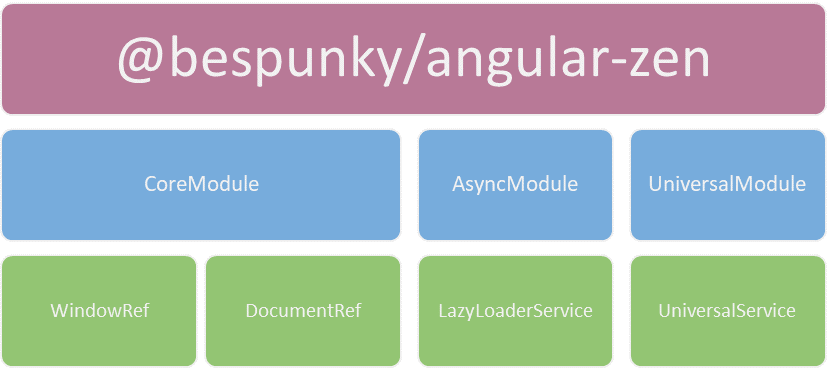
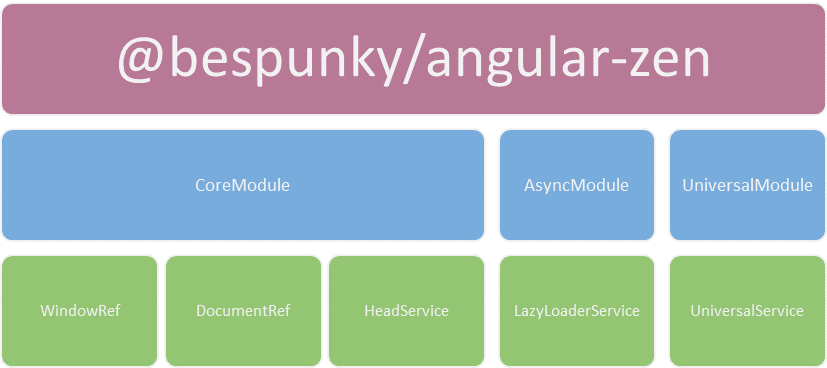
📃 Added wiki info for head service

diff --git a/projects/bespunky/angular-zen/core/testing/utils/setup.ts b/projects/bespunky/angular-zen/core/testing/utils/setup.ts
@@ -8,21 +8,17 @@ import { MockElement          } from '../mocks/element.mock';
 
 /**
  * Mocks the following hierarchy:
+ * ```javascript
  *  DocumentRef {
  *    nativeDocument: {
  *      head: mockHeadElement,
  *      createElement: () => mockScriptElement | mockLinkElement | mockDivElement | MockElement(<tagName>)
  *    }
  *  }
+ * ```
  * 
  * Used when testing head related services (e.g. HeadService, LazyLoaderService).
- * The returned mocks can be deconstructed like so:
  * 
- * @example
- * let mockDivElement, mockScriptElement, ...;
- * 
- * ({ mockDivElement, mockScriptElement, mockLinkElement, mockHeadElement, mockDocument } = setupDocumentRefMock());
- *
  * Any element created using `DocumentRef.nativeDocument.createElement()` will go through this mock.
  * The returned mocks allow expectations and state comparison as they are the objects returned
  * by the fake `createElement()` function.
@@ -31,6 +27,13 @@ import { MockElement          } from '../mocks/element.mock';
  * If a link element was requested, the mockLinkElement object is returned.
  * If a div element was requested, the mockDivElement object is returned.
  * If any other tag name is requested, a new MockElement object is returned.
+ * 
+ * The returned mocks can be deconstructed like so:
+ *
+ * @example
+ * let mockDivElement, mockScriptElement, ...;
+ * 
+ * ({ mockDivElement, mockScriptElement, mockLinkElement, mockHeadElement, mockDocument } = setupDocumentRefMock());
  */
 export function setupDocumentRefMock()
 {        

diff --git a/wiki/Modules/CoreModule/HeadService.md b/wiki/Modules/CoreModule/HeadService.md
@@ -1,0 +1,71 @@
+# HeadService
+Apart from the `Meta` and `Title` services, Angular doesn't provide a straight forward way of manipulating the `<head>` element.
+
+The `HeadService` provides tools for elements lookup, adding elements and removing them from `<head>`.
+
+> If you're looking for a way to lazy load a script or a style, see [`LazyLoaderService`](../AsyncModule/LazyLoaderService.md) instead.
+
+# How to use
+1. Import `CoreModule` into your app:
+    ```typescript
+    import { BrowserModule } from '@angular/platform-browser';
+    import { NgModule } from '@angular/core';
+
+    import { CoreModule } from '@bespunky/angular-zen/core'; // 1. Import core module
+
+    import { AppComponent } from './app.component';
+
+    @NgModule({
+        declarations: [
+            AppComponent
+        ],
+        imports: [
+            BrowserModule,
+            CoreModule // 2. Include module in your app
+        ],
+        providers: [], 
+        bootstrap: [AppComponent]
+    })
+    export class AppModule { }
+    ```
+
+2. Inject `HeadService` in your components/services and call its methods as needed:
+    ```typescript
+    import { Component, OnInit } from '@angular/core';
+    import { HeadService } from '@bespunky/angular-zen/core';
+
+    @Component({
+        selector   : 'zen-head-service-demo',
+        templateUrl: './head-service-demo.component.html',
+        styleUrls  : ['./head-service-demo.component.css']
+    })
+    export class HeadServiceDemoComponent implements OnInit
+    {
+        constructor(private head: HeadService) { }
+
+        ngOnInit()
+        {
+            this.head.addLinkElement('canonical', { href: 'https://your.canonical.url' });
+        }
+    }
+    ```
+
+## Configuring Elements
+When adding elements, you can provide an element configurator. The configurator is either an object or a function.
+
+### Configurator objects
+A configurator object is an `{ [attribute]: value }` object. After element creation, each attribute in the object will be written to the element before it is added to the DOM.
+
+### Configurator functions
+A configurator function is a `(element) => void` function. After element creation, the native element will be passed into your function so you have a chance at manipulating it before adding it to the DOM.
+
+## Finding/Removing Elements
+The `findElements()` and `removeElements()` methods both use the same mechanism for element lookup:
+Tag name + any additional attributes you provide.
+Lookup is done using `AND` comparisons, meaning all provided arguments must match exactly for the element to be grabbed.
+
+# Mocking
+The service uses the [`DocumentRef`](DocumentRef.md) service internally. If you need to mock the document object or any of its children see [mocking DOCUMENT](DocumentRef/Mocking.md).
+
+# See also
+[`LazyLoaderService`](../AsyncModule/LazyLoaderService.md)

diff --git a/wiki/Modules/CoreModule/DocumentRef/Mocking.md b/wiki/Modules/CoreModule/DocumentRef/Mocking.md
@@ -45,3 +45,6 @@ describe('DocumentRefDemoComponent', () =>
 ```
 
 See [demo project](https://dev.azure.com/BeSpunky/Libraries/_git/angular-zen?path=%2Fprojects%2Fdemo%2Fsrc%2Fapp%2Fmodules%2Fcore-demo%2Fdocument-ref-demo&version=GBmaster) for more mocking and testing examples.
+
+# See Also
+[Testing Suite](https://dev.azure.com/BeSpunky/Libraries/_git/angular-zen?path=%2Fprojects%2Fbespunky%2Fangular-zen%2Fcore%2Ftesting%2Futils%2Fsetup.ts&version=GBmaster&_a=contents)

diff --git a/wiki/Modules/CoreModule.md b/wiki/Modules/CoreModule.md
@@ -4,3 +4,4 @@
 | ---  | ---         |
 | [WindowRef](CoreModule/WindowRef) | Provides an injectable wrapper for accessing the `window` object. |
 | [DocumentRef](CoreModule/DocumentRef) | Provides an injectable wrapper for accessing the `document` object. |
+| [HeadService](CoreModule/HeadService) | Provides tools for manipulating the `<head>` element. |
